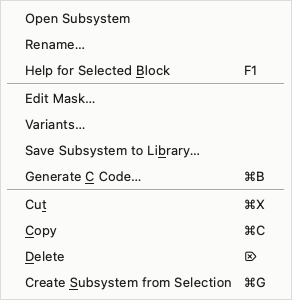
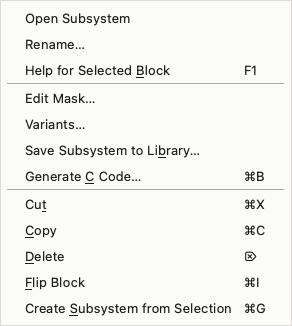
Flip blocks for feedback paths; fix the F1 shortcut clash
- Flip Block (Ctrl+Shift+F, Edit menu, right-click): inputs on the right,
  outputs on the left; router handles flipped ports; saved in meta; undo
- Lambda and drive-cycle examples draw feedback paths right to left
- Help moved to Ctrl+? (it shared F1 with block help on Linux/Windows)
- Test that all action shortcuts are unique

Claude-Session: https://claude.ai/code/session_01VarAEesyLXHz6dcSdpzjd5

diff --git a/src/nervus/gui/views/items.py b/src/nervus/gui/views/items.py
@@ -25,7 +25,7 @@ def snap(v: float) -> float:
 
 
 class PortItem(QGraphicsItem):
-    """A port on the side of a block. Inputs are on the left, outputs on the right."""
+    """A port on the side of a block. Inputs are on the left, outputs on the right (swapped when flipped)."""
 
     def __init__(self, block_item: BlockItem, is_input: bool, index: int) -> None:
         super().__init__(block_item)
@@ -41,6 +41,11 @@ class PortItem(QGraphicsItem):
     def block(self) -> Block:
         return self.block_item.block
 
+    @property
+    def direction(self) -> int:
+        """Direction the signal flows through this port: +1 = to the right, -1 = to the left (flipped block)."""
+        return -1 if self.block_item.flipped else 1
+
     def boundingRect(self) -> QRectF:
         s = PORT_SIZE + 6  # generous hit area
         return QRectF(-s / 2, -s / 2, s, s)
@@ -54,6 +59,8 @@ class PortItem(QGraphicsItem):
             pts = [QPointF(-h, -h), QPointF(h * 0.6, 0), QPointF(-h, h)]
         else:
             pts = [QPointF(-h * 0.6, -h), QPointF(h, 0), QPointF(-h * 0.6, h)]
+        if self.direction < 0:
+            pts = [QPointF(-p.x(), p.y()) for p in pts]
         color = t.color("accent") if self.hover else t.color("port")
         painter.setPen(Qt.PenStyle.NoPen)
         painter.setBrush(color)
@@ -69,7 +76,8 @@ class PortItem(QGraphicsItem):
 
     def scene_anchor(self) -> QPointF:
         """Where wires attach, in scene coordinates."""
-        return self.mapToScene(QPointF(PORT_SIZE / 2 if not self.is_input else -PORT_SIZE / 2, 0))
+        outward = (-1 if self.is_input else 1) * self.direction
+        return self.mapToScene(QPointF(outward * PORT_SIZE / 2, 0))
 
 
 class BlockItem(QGraphicsItem):
@@ -116,7 +124,10 @@ class BlockItem(QGraphicsItem):
                 p.scene().removeItem(p)
         self.in_ports = [PortItem(self, True, i) for i in range(self.block.num_inputs())]
         self.out_ports = [PortItem(self, False, i) for i in range(self.block.num_outputs())]
-        for ports, x in ((self.in_ports, -PORT_SIZE / 2), (self.out_ports, self._w + PORT_SIZE / 2)):
+        left, right = -PORT_SIZE / 2, self._w + PORT_SIZE / 2
+        if self.flipped:
+            left, right = right, left
+        for ports, x in ((self.in_ports, left), (self.out_ports, right)):
             for i, p in enumerate(ports):
                 p.setPos(x, self._h * (i + 1) / (len(ports) + 1))
         self.setToolTip(f"{self.block.label} ({self.block.type_id})\nDouble-click to edit · F1 for help")
@@ -125,6 +136,11 @@ class BlockItem(QGraphicsItem):
     def boundingRect(self) -> QRectF:
         # Room for the name label under the block.
         return QRectF(-PORT_SIZE, -2, self._w + 2 * PORT_SIZE, self._h + 22)
+
+    @property
+    def flipped(self) -> bool:
+        """Flipped blocks have their inputs on the right and outputs on the left (for feedback paths)."""
+        return bool(self.block.meta.get("flipped", False))
 
     def body_rect(self) -> QRectF:
         return QRectF(0, 0, self._w, self._h)
@@ -174,9 +190,12 @@ class BlockItem(QGraphicsItem):
         painter.setFont(small)
         painter.setPen(t.color("text_secondary"))
         sub = self.block
+        left, right = Qt.AlignmentFlag.AlignLeft, Qt.AlignmentFlag.AlignRight
+        if self.flipped:
+            left, right = right, left
         for ports, items, align, dx in (
-            (sub.inports(), self.in_ports, Qt.AlignmentFlag.AlignLeft, 6),  # type: ignore[attr-defined]
-            (sub.outports(), self.out_ports, Qt.AlignmentFlag.AlignRight, -6),  # type: ignore[attr-defined]
+            (sub.inports(), self.in_ports, left, 6 if not self.flipped else -6),  # type: ignore[attr-defined]
+            (sub.outports(), self.out_ports, right, -6 if not self.flipped else 6),  # type: ignore[attr-defined]
         ):
             for port_block, item in zip(ports, items, strict=False):
                 y = item.pos().y()
@@ -265,7 +284,7 @@ class WireItem(QGraphicsPathItem):
         self.update_path()
 
     def update_path(self) -> None:
-        self.setPath(route(self.src.scene_anchor(), self.dst.scene_anchor()))
+        self.setPath(route(self.src.scene_anchor(), self.dst.scene_anchor(), self.src.direction, self.dst.direction))
 
     def boundingRect(self) -> QRectF:
         r = super().boundingRect()
@@ -321,10 +340,28 @@ class WireItem(QGraphicsPathItem):
         self.update()
 
 
-def route(a: QPointF, b: QPointF) -> QPainterPath:
-    """Orthogonal route from an output anchor ``a`` to an input anchor ``b``."""
-    path = QPainterPath(a)
+def route(a: QPointF, b: QPointF, a_dir: int = 1, b_dir: int = 1) -> QPainterPath:
+    """Orthogonal route from an output anchor ``a`` to an input anchor ``b``.
+
+    ``a_dir``/``b_dir`` are the signal directions at the ports (+1 = to the right, -1 = flipped block).
+    """
     stub = 10.0
+    if a_dir < 0 and b_dir < 0:  # both flipped: route the mirror image
+        mirrored = route(QPointF(-a.x(), a.y()), QPointF(-b.x(), b.y()))
+        path = QPainterPath(a)
+        for k in range(1, mirrored.elementCount()):
+            el = mirrored.elementAt(k)
+            path.lineTo(-el.x, el.y)
+        return path
+    path = QPainterPath(a)
+    if a_dir != b_dir:
+        # Out of one side and into the same side of the other block (typical for a flipped feedback block):
+        # go past both, then turn back.
+        x = max(a.x(), b.x()) + 2 * stub if a_dir > 0 else min(a.x(), b.x()) - 2 * stub
+        path.lineTo(x, a.y())
+        path.lineTo(x, b.y())
+        path.lineTo(b)
+        return path
     if b.x() - a.x() >= 2 * stub:
         mx = snap((a.x() + b.x()) / 2)
         path.lineTo(mx, a.y())

diff --git a/src/nervus/gui/views/main_window.py b/src/nervus/gui/views/main_window.py
@@ -202,6 +202,9 @@ class MainWindow(QMainWindow):
             None,
             "Add the selected subsystem to a component library",
         )
+        self.act_flip = self._action(
+            "&Flip Block", self.flip_selection, "Ctrl+Shift+F", "Swap the inputs and outputs sides (for feedback paths)"
+        )
         self.act_types = self._action("Show &Data Types", self.refresh_types, None, "Label wires with their data type")
         self.act_types.setCheckable(True)
         self.act_up = self._action("&Up to Parent", self.diagram_model.up, "Ctrl+Up", "Leave this subsystem")
@@ -234,7 +237,7 @@ class MainWindow(QMainWindow):
         self.act_advisor = self._action(
             "Model &Advisor…", self.show_advisor, "Ctrl+Shift+A", "Check the model for risky modelling practices"
         )
-        self.act_help = self._action("Nervus &Help", self.show_help, K.HelpContents, "Open the help", "help")
+        self.act_help = self._action("Nervus &Help", self.show_help, "Ctrl+?", "Open the help", "help")
         self.act_block_help = self._action("Help for Selected &Block", self.show_block_help, Qt.Key.Key_F1)
         self.act_about = self._action("&About Nervus", self.about)
 
@@ -257,6 +260,7 @@ class MainWindow(QMainWindow):
         m.addAction(self.act_select_all)
         m.addSeparator()
         m.addAction(self.act_create_subsystem)
+        m.addAction(self.act_flip)
         m.addAction(self.act_save_to_library)
         m.addAction(self.act_layout)
         m = mb.addMenu("&View")
@@ -809,6 +813,7 @@ class MainWindow(QMainWindow):
                     menu.addAction(self.act_codegen)
             menu.addSeparator()
             menu.addActions([self.act_cut, self.act_copy, self.act_delete])
+            menu.addAction(self.act_flip)
             menu.addAction(self.act_create_subsystem)
         elif target is not None:  # a wire
             menu.addAction("Delete Wire", lambda: self.editor.delete([], [target]))  # type: ignore[list-item]
@@ -820,6 +825,9 @@ class MainWindow(QMainWindow):
             if self.diagram_model.diagram.parent is not None:
                 menu.addAction(self.act_up)
         return menu
+
+    def flip_selection(self) -> None:
+        self.editor.flip_blocks(self.scene.selected_blocks())
 
     def rename_block(self, block: Block) -> None:
         name, ok = QInputDialog.getText(self, "Rename block", "New name:", text=block.name)

diff --git a/tests/gui/test_subsystem_gui.py b/tests/gui/test_subsystem_gui.py
@@ -182,3 +182,36 @@ def test_context_menus(window) -> None:  # type: ignore[no-untyped-def]
     menu.actions()[0].trigger()
     assert not window.diagram_model.diagram.connections
     assert any("Layout" in t for t in texts(window.context_menu(None)))
+
+
+def test_flip_blocks(window) -> None:  # type: ignore[no-untyped-def]
+    ed = window.editor
+    c = ed.add_block("sources.constant", QPointF(0, 0))
+    g = ed.add_block("math.gain", QPointF(300, 0))
+    ed.connect_ports(c, 0, g, 0)
+    item = window.scene._item(g)
+    left_in = item.in_ports[0].scene_anchor().x()
+    assert ed.flip_blocks([g])
+    assert g.meta["flipped"] is True
+    item = window.scene._item(g)
+    assert item.in_ports[0].scene_anchor().x() > left_in + item.size[0] - 1  # the input moved to the right side
+    wire = next(iter(window.scene.wires.values()))
+    assert wire.path().elementCount() >= 3  # routed around to the right side
+    ed.undo_stack.undo()
+    assert "flipped" not in g.meta
+    from nervus.io import dumps, loads
+
+    ed.undo_stack.redo()
+    assert loads(dumps(window.diagram_model.root)).block(g.name).meta["flipped"] is True
+
+
+def test_shortcuts_are_unique(window) -> None:  # type: ignore[no-untyped-def]
+    from PySide6.QtGui import QAction
+
+    seen: dict[str, str] = {}
+    for action in window.findChildren(QAction):
+        for seq in action.shortcuts():
+            key = seq.toString()
+            if key:
+                assert key not in seen or seen[key] == action.text(), f"{key}: {seen.get(key)} and {action.text()}"
+                seen[key] = action.text()

diff --git a/examples/lambda_control.py b/examples/lambda_control.py
@@ -172,15 +172,18 @@ def build() -> Diagram:
             "air_fuel_ratio": (1240, 200),
             "lambda_cyl": (1400, 200),
             "lambda": (1560, 120),
-            "exhaust_sample": (0, 560),
-            "exhaust_delay": (120, 560),
-            "deviation": (240, 560),
-            "sensor_lag": (360, 560),
-            "lambda_sensor": (480, 560),
-            "STFT": (920, 520),
-            "LTFT": (920, 620),
+            # The exhaust path runs back from the cylinders to the ECU, right to left (flipped blocks).
+            "exhaust_sample": (1400, 600),
+            "exhaust_delay": (1240, 600),
+            "deviation": (1080, 600),
+            "sensor_lag": (920, 600),
+            "lambda_sensor": (760, 600),
+            "STFT": (920, 470),
+            "LTFT": (1080, 470),
         },
     )
+    for name in ("exhaust_sample", "exhaust_delay", "deviation", "sensor_lag", "lambda_sensor"):
+        d.block(name).meta["flipped"] = True
     d.tests = [
         TestCase(
             "vacuum leak learned by the LTFT",

diff --git a/src/nervus/gui/controllers/editor_controller.py b/src/nervus/gui/controllers/editor_controller.py
@@ -20,6 +20,7 @@ from nervus.gui.controllers.commands import (
     Command,
     ConnectCommand,
     CreateSubsystemCommand,
+    FlipBlocksCommand,
     MoveBlocksCommand,
     RemoveCommand,
     RenameCommand,
@@ -47,6 +48,7 @@ _DIAGRAM_EDITS = (
     SetParamsCommand,
     MoveBlocksCommand,
     CreateSubsystemCommand,
+    FlipBlocksCommand,
 )
 """Commands that change the shown diagram (refused inside linked library subsystems)."""
 
@@ -110,6 +112,10 @@ class EditorController(QObject):
     def delete(self, blocks: list[Block], connections: list[Connection]) -> None:
         if blocks or connections:
             self._push(RemoveCommand(self.model, blocks, connections))
+
+    def flip_blocks(self, blocks: list[Block]) -> bool:
+        """Flip blocks left-right (undoable)."""
+        return bool(blocks) and self._push(FlipBlocksCommand(self.model, blocks))
 
     def move_blocks(self, moves: list[tuple[Block, QPointF, QPointF]]) -> None:
         moves = [(b, o, n) for b, o, n in moves if o != n]

diff --git a/examples/drive_cycle.py b/examples/drive_cycle.py
@@ -147,11 +147,12 @@ def build_vehicle() -> Subsystem:
             "1/m": (450, 0),
             "speed": (600, 0),
             "v_out": (900, 0),
-            "v_squared": (300, 150),
+            # Road loads are fed back from the speed, right to left (flipped blocks).
+            "v_squared": (600, 150),
             "F_aero": (450, 150),
-            "v_x10": (150, 260),
-            "rolling_onset": (300, 260),
-            "F_roll": (450, 260),
+            "v_x10": (600, 260),
+            "rolling_onset": (450, 260),
+            "F_roll": (300, 260),
             "distance": (750, 120),
             "distance_m": (900, 120),
             "wheel_power": (450, 400),
@@ -161,6 +162,8 @@ def build_vehicle() -> Subsystem:
             "power_W": (900, 500),
         },
     )
+    for name in ("v_squared", "F_aero", "v_x10", "rolling_onset", "F_roll"):
+        d.block(name).meta["flipped"] = True
     return Subsystem(system=d)
 
 

diff --git a/src/nervus/gui/controllers/commands.py b/src/nervus/gui/controllers/commands.py
@@ -411,3 +411,25 @@ class SetLinkCommand(Command):
 
     def revert(self) -> None:
         self._apply(self.old)
+
+
+class FlipBlocksCommand(Command):
+    """Flip blocks left-right (inputs on the right, outputs on the left), e.g. for feedback paths."""
+
+    def __init__(self, model: DiagramModel, blocks: list[Block]) -> None:
+        super().__init__(f"Flip {len(blocks)} block{'s' if len(blocks) != 1 else ''}")
+        self.model, self.blocks = model, list(blocks)
+
+    def _toggle(self) -> None:
+        for b in self.blocks:
+            if b.meta.get("flipped"):
+                b.meta.pop("flipped")
+            else:
+                b.meta["flipped"] = True
+            self.model.paramsChanged.emit(b)
+
+    def do(self) -> None:
+        self._toggle()
+
+    def revert(self) -> None:
+        self._toggle()

diff --git a/src/nervus/gui/views/canvas.py b/src/nervus/gui/views/canvas.py
@@ -241,7 +241,8 @@ class DiagramScene(QGraphicsScene):
         if self._temp_wire is not None and self._wire_from is not None:
             a = self._wire_from.scene_anchor()
             b = event.scenePos()
-            path = route(a, b) if not self._wire_from.is_input else route(b, a)
+            d = self._wire_from.direction
+            path = route(a, b, d, 1) if not self._wire_from.is_input else route(b, a, 1, d)
             self._temp_wire.setPath(path)
             event.accept()
             return

diff --git a/CHANGELOG.md b/CHANGELOG.md
@@ -6,6 +6,7 @@ All notable changes to this project are documented here. The format follows
 ## [Unreleased]
 
 ### Fixed
+- On Linux and Windows, Help and Help for Selected Block were both on F1, so F1 did nothing; Help is now Ctrl+?.
 - Test checks failed to notice NaN/inf: a bounds check passed on a diverged signal. Checks now fail.
 - `generate_c` for an atomic subsystem ignored its own sample time.
 - Out blocks could be scheduled before the block driving them, so generated C output last step's value.
@@ -16,6 +17,8 @@ All notable changes to this project are documented here. The format follows
 - Discrete blocks with an inherited sample time used −1 as their period (Rate Limiter, Discrete Filter, ...).
 
 ### Added
+- Flip blocks (Ctrl+Shift+F): inputs on the right and outputs on the left, for feedback paths; saved with the model.
+  The lambda and drive-cycle examples use it.
 - Example and tutorial: a car with a driver model on the ECE-15 urban drive cycle (driver and vehicle
   subsystems, road loads, wheel energy, effect of mass).
 - Right-click menus on blocks, subsystems, wires and the canvas (rename, open, mask, variants, library, code,

diff --git a/docs/editor.md b/docs/editor.md
@@ -40,6 +40,17 @@ Right-click a block, a wire or the empty canvas for the actions that fit it:
 Right-clicking a block that is part of a selection keeps the selection, so *Delete* or *Create Subsystem*
 act on all selected blocks.
 
+## Flipping blocks for feedback paths
+
+Feedback paths, such as a sensor signal going back to the controller, are easier to read when they run from
+right to left. Select blocks and press **Ctrl+Shift+F** (**Edit → Flip Block**, or right-click → *Flip Block*):
+their inputs move to the right side and their outputs to the left. Flipping only changes the drawing, and
+it is saved with the model.
+
+![The lambda sensor path drawn right to left with flipped blocks](images/lambda-model.png)
+
+In Python, set `block.meta["flipped"] = True`.
+
 ## Running a simulation
 
 Press **▶ Run** (⌘R / Ctrl+R / F5). The simulation runs in the background, so the window stays responsive,

diff --git a/plan.md b/plan.md
@@ -111,7 +111,8 @@ tests/
 - [ ] Manual wire routing (drag segments, waypoints) and draggable branch points
 - [ ] Obstacle-avoiding automatic wire routing (wires currently may pass behind blocks)
 - [x] Auto Layout command (left-to-right by signal flow), undoable
-- [ ] Rotate / flip blocks, resize blocks, nudge with arrow keys
+- [x] Flip blocks (Ctrl+Shift+F) for feedback paths; the wire router handles flipped ports
+- [ ] Rotate blocks (vertical signal flow), resize blocks, nudge with arrow keys
 - [x] Show data types on the canvas (View → Show Data Types)
 - [ ] Show signal widths and sample-time colours on the canvas (like Simulink's "port data types" / "sample time colors")
 - [x] Right-click context menus on blocks, wires and the canvas

diff --git a/docs/app-help/editor.md b/docs/app-help/editor.md
@@ -44,6 +44,15 @@ Right-click a block, a wire or the empty canvas for the actions that fit it:
 Right-clicking a block that is part of a selection keeps the selection, so *Delete* or *Create Subsystem*
 act on all selected blocks.
 
+## Flipping blocks for feedback paths
+
+Feedback paths, such as a sensor signal going back to the controller, are easier to read when they run from
+right to left. Select blocks and press **Ctrl+Shift+F** (**Edit → Flip Block**, or right-click → *Flip Block*):
+their inputs move to the right side and their outputs to the left. Flipping only changes the drawing, and
+it is saved with the model.
+
+In Python, set `block.meta["flipped"] = True`.
+
 ## Editing parameters
 
 Numeric fields accept:
